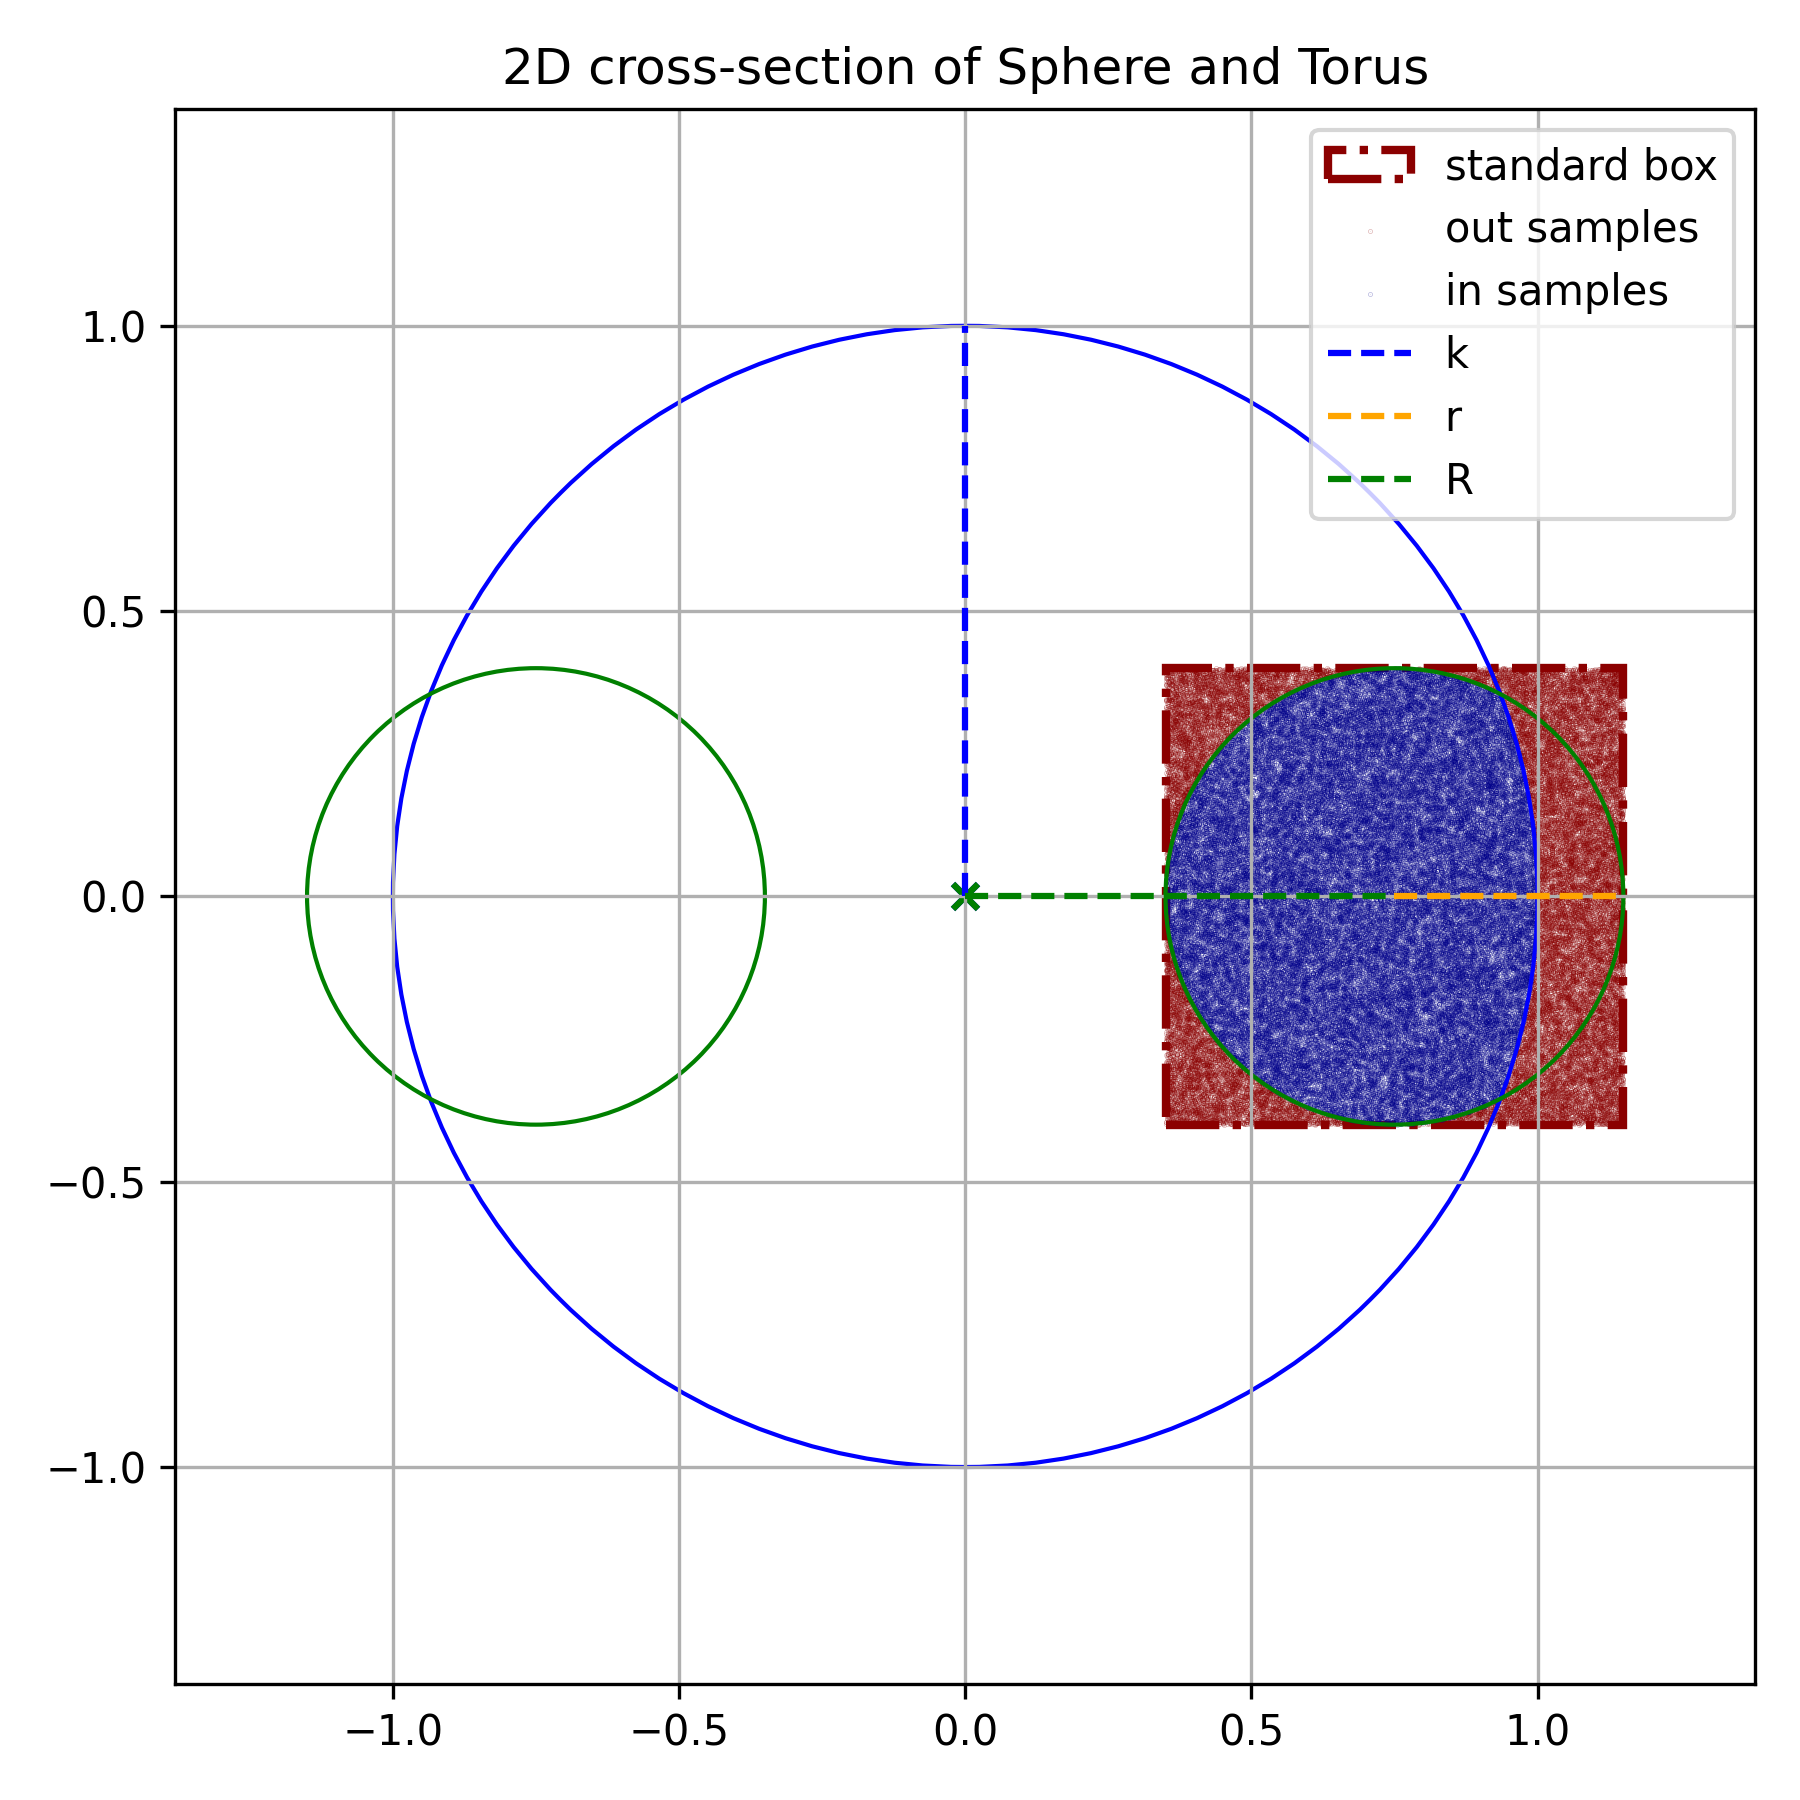
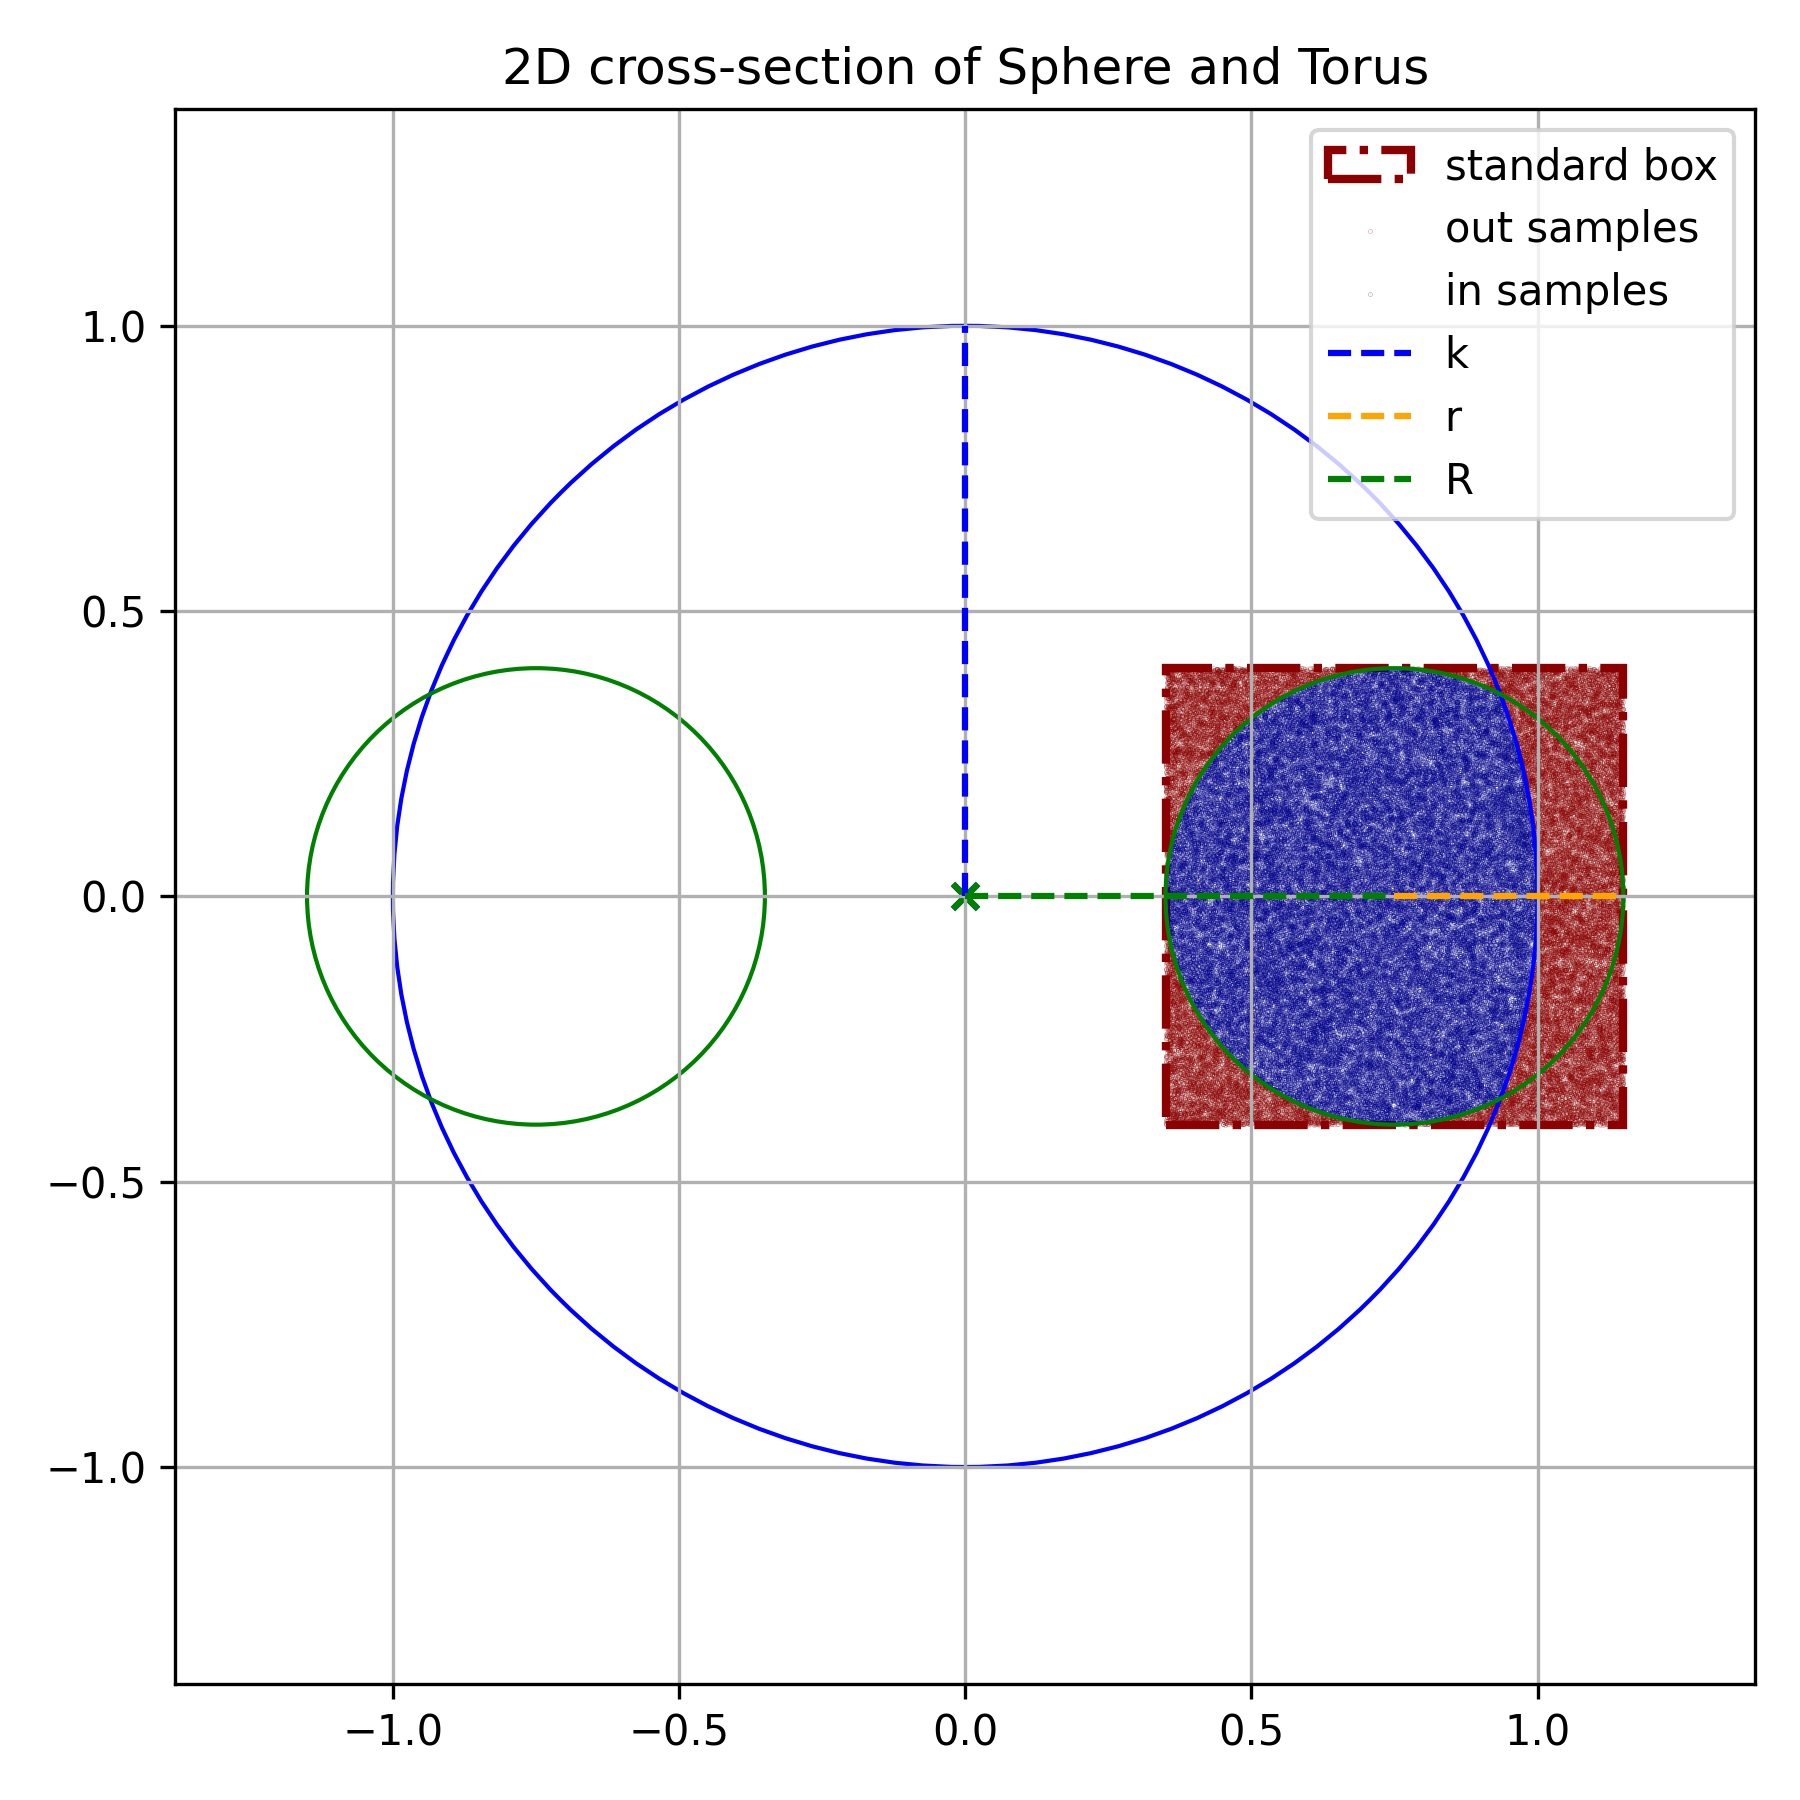
q3 a2

Changed region(s): [[0.6533, 0.3733, 0.9022, 0.6222]]

diff --git a/main.py b/main.py
@@ -1,12 +1,16 @@
-from itertools import combinations, product
-
 import matplotlib.patches as mpatches
 import matplotlib.pyplot as plt
 import numpy as np
 import pandas as pd
+from scipy.stats import norm
+from itertools import combinations, product
+from mpl_toolkits.axes_grid1 import host_subplot
 from matplotlib.axes import Axes
+<<<<<<< Updated upstream
 from numba import njit
 from scipy.stats import norm
+=======
+>>>>>>> Stashed changes
 from tqdm import tqdm
 
 
@@ -164,8 +168,14 @@ def monte_carlo_3d(
     """
     box = box_standard(r, R, origin=origin)  # or box_sample(r, R)
     if deterministic:
+<<<<<<< Updated upstream
         box = np.array(box, dtype=np.float64)
         pts = deterministic_sequence(np.random.uniform(0, 1, 3), box)
+=======
+        pts = deterministic_sequence(np.mean(box, axis=1), n)
+        print(box)
+        print(pts)
+>>>>>>> Stashed changes
     else:
         pts = samples(box, n)  # deterministic_sequence(box, n)
 
@@ -939,16 +949,19 @@ if __name__ == "__main__":
     R_b = 0.5
     n = 100_000  # Monte Carlo samples
     origin_shift = [0.0, 0.0, 0.1]
-    n_runs = 1000
+    n_runs = 10
 
     Q1 = False
+    Q2 = True
+    Q3 = False
+    PSWEEP = False
 
     # Question 1: volume of intersection between sphere and torus.
     if Q1:
         # case a:
         volumes_a = run_multi_executions(monte_carlo_3d, n_runs - 1, k, r_a, R_a)
         estimated_volume_a_3d, (pts, pts_in) = monte_carlo_3d(k, r_a, R_a, n)
-        volumes_a.append(estimated_volume_a_3d)
+        volumes_a = np.append(volumes_a, estimated_volume_a_3d)
         avg_volume_a = np.mean(volumes_a)
         std_volume_a = np.std(volumes_a)
 
@@ -958,7 +971,7 @@ if __name__ == "__main__":
         # case b:
         volumes_b = run_multi_executions(monte_carlo_3d, n_runs - 1, k, r_b, R_b)
         estimated_volume_b_3d, (pts, pts_in) = monte_carlo_3d(k, r_b, R_b, n)
-        volumes_b.append(estimated_volume_b_3d)
+        volumes_b = np.append(volumes_b, estimated_volume_b_3d)
         avg_volume_b = np.mean(volumes_b)
         std_volume_b = np.std(volumes_b)
 
@@ -968,7 +981,7 @@ if __name__ == "__main__":
         # case a but with 2d MC approximation
         volumes_a_2d = run_multi_executions(monte_carlo_2d, n_runs - 1, k, r_a, R_a)
         estimated_volume_a_2d, (pts_2d, pts_in_2d) = monte_carlo_2d(k, r_a, R_a, n)
-        volumes_a_2d.append(estimated_volume_a_2d)
+        volumes_a_2d = np.append(volumes_a_2d, estimated_volume_a_2d)
         avg_volume_a_2d = np.mean(volumes_a_2d)
         std_volume_a_2d = np.std(volumes_a_2d)
 
@@ -984,7 +997,7 @@ if __name__ == "__main__":
         # case b but with 2d MC approximation
         volumbes_b_2d = run_multi_executions(monte_carlo_2d, n_runs - 1, k, r_b, R_b)
         estimated_volume_b_2d, (pts_2d, pts_in_2d) = monte_carlo_2d(k, r_b, R_b, n)
-        volumbes_b_2d.append(estimated_volume_b_2d)
+        volumbes_b_2d = np.append(volumbes_b_2d, estimated_volume_b_2d)
         avg_volume_b_2d = np.mean(volumbes_b_2d)
         std_volume_b_2d = np.std(volumbes_b_2d)
 
@@ -1018,57 +1031,140 @@ if __name__ == "__main__":
         )
 
     # Question 2: change in estimate and error for determinstic sequence
+    if Q2:
+        volumes_deterministic_a = run_multi_executions(
+            monte_carlo_3d, n_runs - 1, k, r_a, R_a, deterministic=True
+        )
+        estimated_volume_deterministic_a, (pts, pts_in) = monte_carlo_3d(
+            k, r_a, R_a, n, deterministic=True
+        )
+        volumes_deterministic_a = np.append(
+            volumes_deterministic_a, estimated_volume_deterministic_a
+        )
+
+        print(volumes_deterministic_a)
+        avg_volume_deterministic_a = np.mean(volumes_deterministic_a)
+        std_volume_deterministic_a = np.std(volumes_deterministic_a)
+
+        plot_2d(
+            k, r_a, R_a, pts=pts, pts_in=pts_in, save_path="img/deterministic_a_2d.png"
+        )
+        plot_3d(
+            k, r_a, R_a, pts=pts, pts_in=pts_in, save_path="img/deterministic_a_3d.png"
+        )
+        print(
+            f"Q2, Deterministic Case A || Mean: {avg_volume_deterministic_a:.9f} || Standard Deviation: {std_volume_deterministic_a:.9f}"
+        )
+
+        volumes_deterministic_b = run_multi_executions(
+            monte_carlo_3d, n_runs - 1, k, r_b, R_b, deterministic=True
+        )
+        estimated_volume_deterministic_b, (pts, pts_in) = monte_carlo_3d(
+            k, r_b, R_b, n, deterministic=True
+        )
+        volumes_deterministic_b = np.append(
+            volumes_deterministic_b, estimated_volume_deterministic_b
+        )
+        avg_volume_deterministic_b = np.mean(volumes_deterministic_b)
+        std_volume_deterministic_b = np.std(volumes_deterministic_b)
+
+        plot_2d(
+            k, r_b, R_b, pts=pts, pts_in=pts_in, save_path="img/deterministic_b_2d.png"
+        )
+        plot_3d(
+            k, r_b, R_b, pts=pts, pts_in=pts_in, save_path="img/deterministic_b_3d.png"
+        )
+        print(
+            f"Q2, Deterministic Case B || Mean: {avg_volume_deterministic_b:.9f} || Standard Deviation: {std_volume_deterministic_b:.9f}"
+        )
 
     # Question 3: Off center torus
     # a) estimate volume
-    volumes_offcenter = []
-    volume_offcenter, (pts, pts_in) = monte_carlo_3d(
-        k, r_a, R_a, n, origin=origin_shift
-    )
-    volumes_offcenter.append(volume_offcenter)
-    for i in range(n_runs - 1):
-        volume_offcenter, _ = monte_carlo_3d(k, r_a, R_a, n, origin=origin_shift)
-        volumes_offcenter.append(volume_offcenter)
 
-    avg_volume_offcenter = np.mean(volumes_offcenter)
-    std_volume_offcenter = np.std(volumes_offcenter)
+    if Q3:
+        volumes_offcenter = np.empty(0)
+        volume_offcenter, (pts, pts_in) = monte_carlo_3d(
+            k, r_a, R_a, n, origin=origin_shift
+        )
+        volumes_offcenter = np.append(volumes_offcenter, volume_offcenter)
+        for i in range(n_runs - 1):
+            volume_offcenter, _ = monte_carlo_3d(k, r_a, R_a, n, origin=origin_shift)
+            volumes_offcenter = np.append(volumes_offcenter, volume_offcenter)
 
-    plot_2d(
-        k,
-        r_a,
-        R_a,
-        origin_t=origin_shift[-2:],
-        pts=pts,
-        pts_in=pts_in,
-        save_path="img/q3a_2d.png",
-    )
-    # plot_3d(k, r_a, R_a, pts=pts, pts_in=pts_in, save_path="img/q3a_3d.png")
-    print(
-        f"Q3, a) || Mean: {avg_volume_offcenter:.9f} || Standard Deviation: {std_volume_offcenter:.9f}"
-    )
-    # b) mixed sampling
-    p = 0.5
-    volumes_mixed = []
-    volume_mixed, ((pts1, pts1_in), (pts2, pts2_in)) = mixed_sampling(
-        k, r_a, R_a, n=n, p=p, origin=origin_shift
-    )
-    volumes_mixed.append(volume_mixed)
-    for i in range(n_runs - 1):
-        volume_mixed, _ = mixed_sampling(k, r_a, R_a, n=n, p=p, origin=origin_shift)
-        volumes_mixed.append(volume_mixed)
+        avg_volume_offcenter = np.mean(volumes_offcenter)
+        std_volume_offcenter = np.std(volumes_offcenter)
 
-    avg_volume_mixed = np.mean(volumes_mixed)
-    std_volume_mixed = np.std(volumes_mixed)
+        plot_2d(
+            k,
+            r_a,
+            R_a,
+            origin_t=origin_shift[-2:],
+            pts=pts,
+            pts_in=pts_in,
+            save_path="img/q3a_2d.png",
+        )
+        # plot_3d(k, r_a, R_a, pts=pts, pts_in=pts_in, save_path="img/q3a_3d.png")
+        print(
+            f"Q3, a) || Mean: {avg_volume_offcenter:.9f} || Standard Deviation: {std_volume_offcenter:.9f}"
+        )
+        # b) mixed sampling
+        p = 0.5
+        volumes_mixed = np.empty(0)
+        volume_mixed, ((pts1, pts1_in), (pts2, pts2_in)) = mixed_sampling(
+            k, r_a, R_a, n=n, p=p, origin=origin_shift
+        )
+        volumes_mixed = np.append(volumes_mixed, volume_mixed)
+        for i in range(n_runs - 1):
+            volume_mixed, _ = mixed_sampling(k, r_a, R_a, n=n, p=p, origin=origin_shift)
+            volumes_mixed = np.append(volumes_mixed, volume_mixed)
 
-    plot_mix_2d(
-        k,
-        r_a,
-        R_a,
-        origin_t=origin_shift,
-    )
-    print(
-        f"Q3, b) || Mean: {avg_volume_mixed:.9f} || Standard Deviation: {std_volume_mixed:.9f}"
-    )
+        avg_volume_mixed = np.mean(volumes_mixed)
+        std_volume_mixed = np.std(volumes_mixed)
+
+        plot_mix_2d(
+            k,
+            r_a,
+            R_a,
+            origin_t=origin_shift,
+        )
+        print(
+            f"Q3, b) || Mean: {avg_volume_mixed:.9f} || Standard Deviation: {std_volume_mixed:.9f}"
+        )
+
+    if PSWEEP:
+        # p-sweep
+        p_range = np.linspace(0.00001, 0.999, 100)
+        volumes_p_sweep = np.empty([len(p_range), n_runs])
+        for i, p in enumerate(tqdm(p_range, desc="Running p-sweep")):
+            for j in range(n_runs):
+                volume_p, _ = mixed_sampling(k, r_a, R_a, n=n, p=p, origin=origin_shift)
+                volumes_p_sweep[i, j] = volume_p
+
+        # plot p-sweep
+        ax1 = host_subplot(111)
+        ax2 = ax1.twinx()
+        mean = np.mean(volumes_p_sweep, axis=1)
+        std = np.std(volumes_p_sweep, axis=1)
+
+        ax1.plot(p_range, mean, color="green", lw=1, label="Mean")
+        # on second y axis, plot relative std dev
+        ax2.plot(
+            p_range,
+            std / mean,
+            color="blue",
+            lw=1,
+            label="Std Dev",
+        )
+
+        ax1.set_xlabel(r"Mixing Probability $p$")
+        ax1.set_ylabel("Estimated Volume Mean")
+        ax2.set_ylabel("Estimated Volume Std Dev")
+
+        ax1.set_title("Effect of Mixing Probability on Volume Estimate")
+        ax1.legend()
+        plt.tight_layout()
+        plt.savefig("img/p_sweep.png", dpi=300)
+        plt.close()
 
     # --- Generate results table ---
     names_methods = ["Mixed Sampling", "2D MC", "3D MC", "Deterministic Sequence"]
